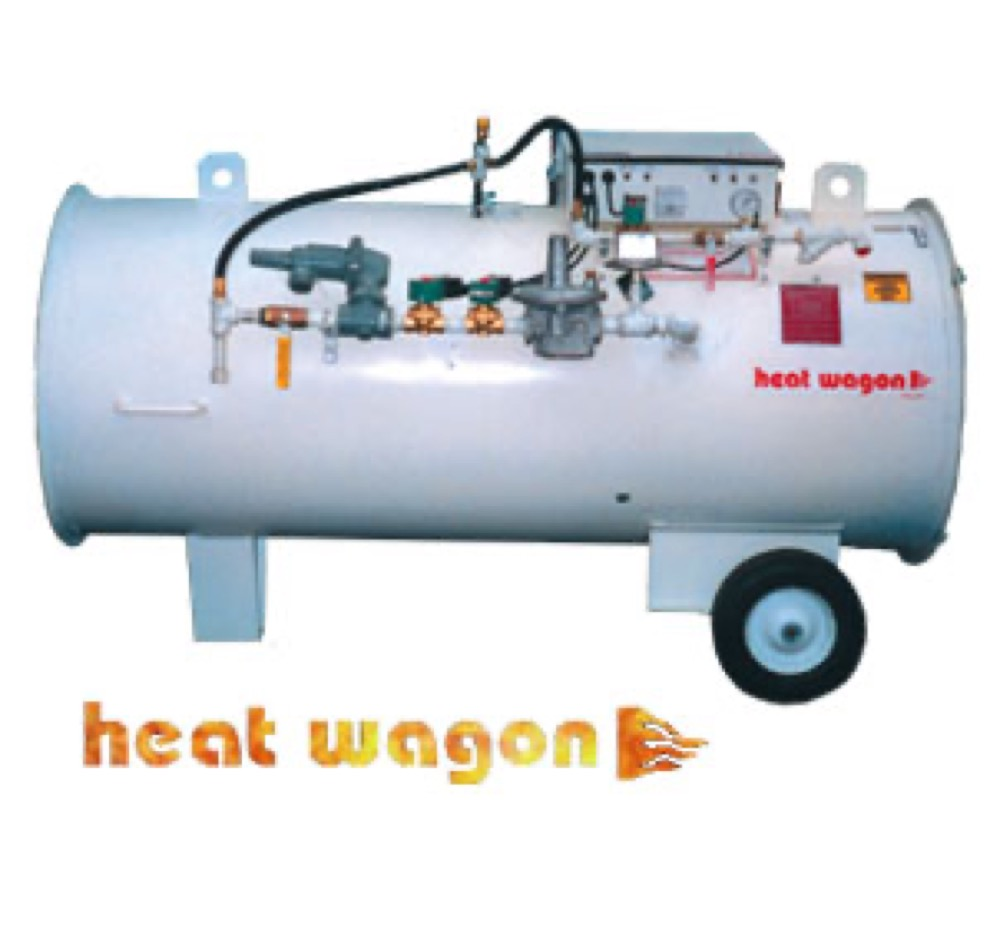
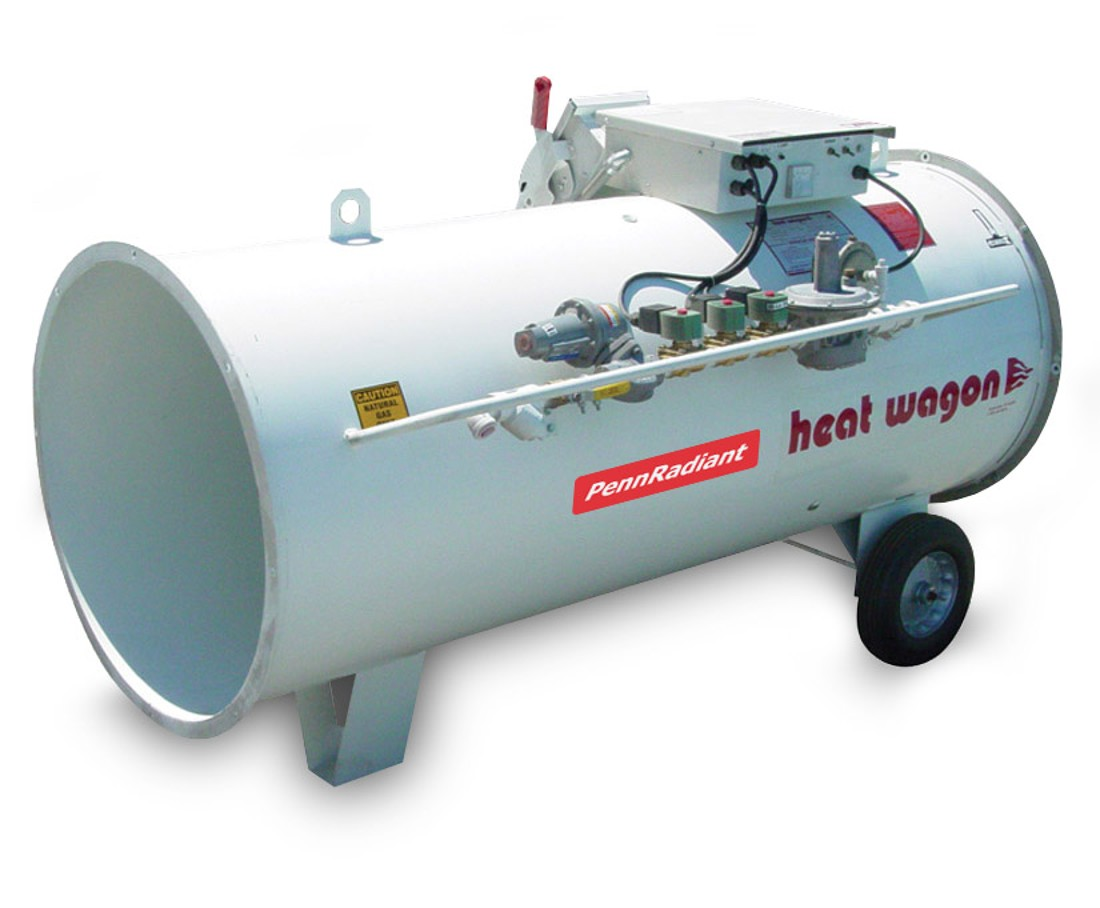
Use current 2026 product photos for all 6 direct-fired heaters
- Replace remaining catalog photos (S405, 1800B, 950H, S1505B, HW2730C, DG)
  with current branded shots from the 2026 Direct Fire Heaters asset folder
- Cache-bust heater images to ?v=3

diff --git a/project/website/df-heater.html b/project/website/df-heater.html
@@ -68,7 +68,7 @@ function Detail({ h }){
       <section className="wrap section" style={{paddingTop:"6px"}}>
         <div className="pd-wrap">
           <div className="pd-photo">
-            <img className="heater" src={A+"/products/direct-fired/"+h.img+"?v=2"} alt={h.brand+" "+h.model}/>
+            <img className="heater" src={A+"/products/direct-fired/"+h.img+"?v=3"} alt={h.brand+" "+h.model}/>
             <img className="brandlogo" src={A+"/brands/"+h.brandLogo} alt={h.brand}/>
           </div>
           <div className="pd-info">

diff --git a/project/website/direct-fired-heaters.html b/project/website/direct-fired-heaters.html
@@ -58,7 +58,7 @@ function Card({ h }) {
   return (
     <a className="dfcard" href={"df-heater.html?m="+h.slug}>
       <div className="ph">
-        <img className="prod" src={A+"/products/direct-fired/"+h.img+"?v=2"} alt={h.brand+" "+h.model}/>
+        <img className="prod" src={A+"/products/direct-fired/"+h.img+"?v=3"} alt={h.brand+" "+h.model}/>
         <img className="brandlogo" src={A+"/brands/"+h.brandLogo} alt={h.brand}/>
       </div>
       <div className="body">
